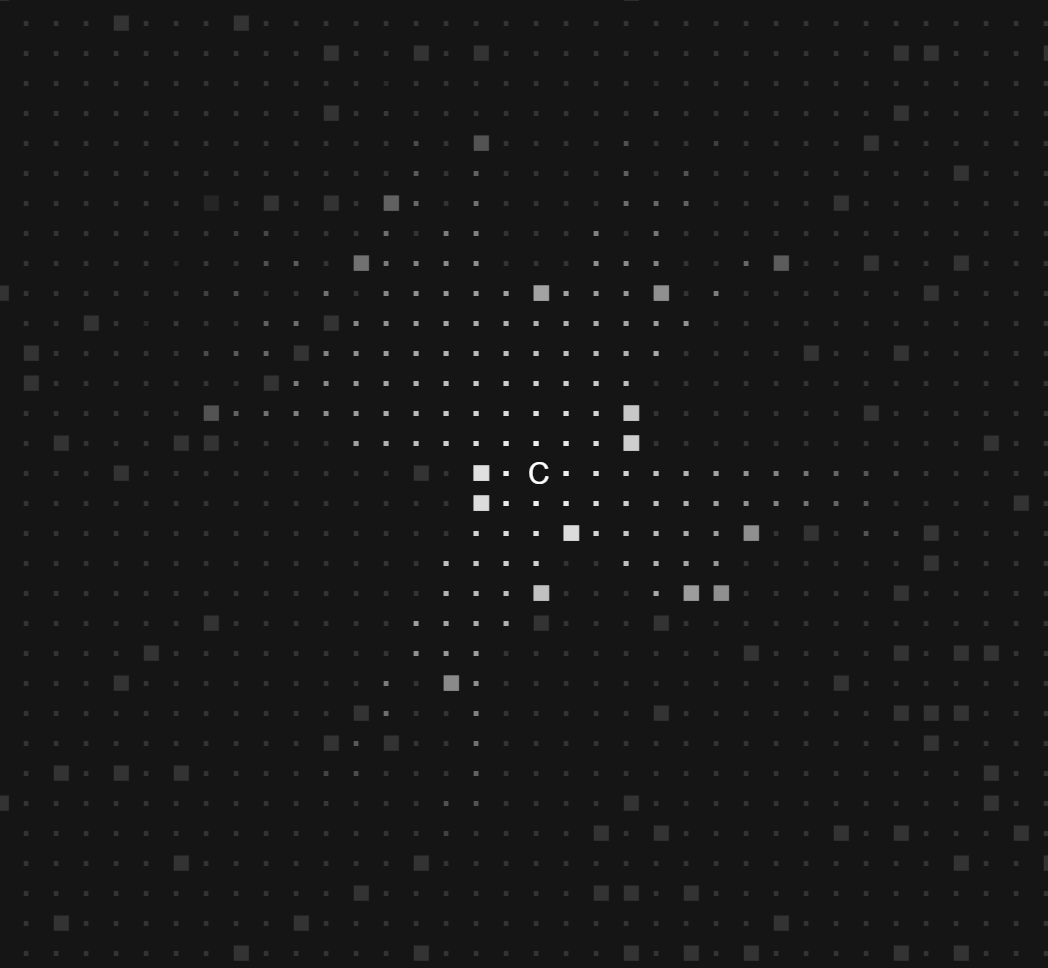
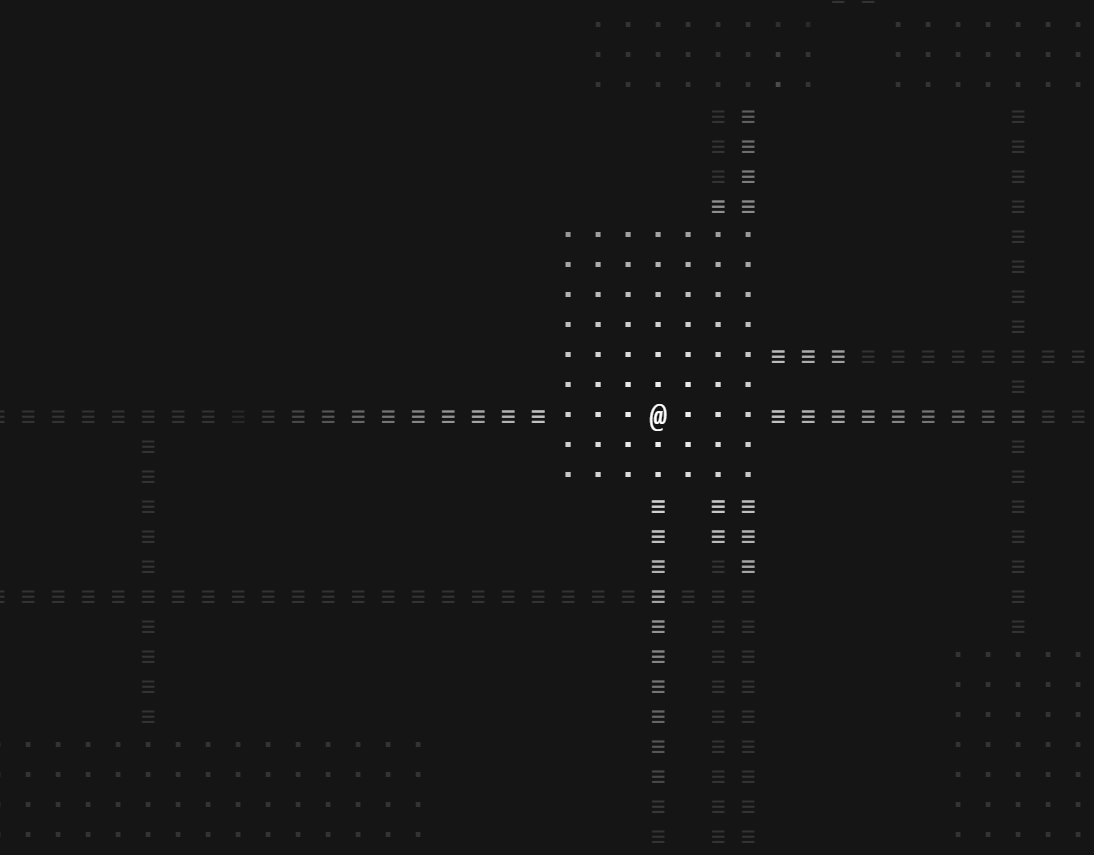
build: rooms genrator

diff --git a/src/game/Board.ts b/src/game/Board.ts
@@ -1,46 +1,65 @@
 import { Printable, setColor } from '../core/printable';
 import { shadeColor, euclidean } from '../utils';
-import { Raycaster } from './Raycaster';
 import { Canvas } from '../core/canvas';
 import { Player } from './Player';
 import { Tile } from './Tile';
+import { Room } from './Room';
 
 import CONFIG = require('../config.json');
 
-export class Board implements Printable{
+export class Board implements Printable {
+  public corridors: Room[] = [];
   public board: Tile[][] = [];
+  public rooms: Room[] = [];
 
   constructor(xSize: number, ySize: number) {
     this._createBoard(xSize, ySize);
   }
 
   private _createBoard(xSize: number, ySize: number): void {
-    // TODO: Better generator will be provided one day...
     for (let i = 0; i < xSize; i++) {
       const boardRow: Tile[] = [];
       for (let j = 0; j < ySize; j++) {
-        if (Math.random() * 10 < 1) {
-          boardRow.push(Tile.getTile('WALL', i, j));
-        } else {
-          boardRow.push(Tile.getTile('GRASS', i, j));
-        }
+        boardRow.push(Tile.getTile('SPACE', i, j));
       }
       this.board.push(boardRow);
+    }
+
+    const map = Room.createRoomsWithCorridors();
+    this.corridors = map.corridors;
+    this.rooms = map.rooms;
+
+    this.corridors.forEach((room) => {
+      this._drawRoom(room, 'PANEL');
+    });
+    this.rooms.forEach((room) => {
+      this._drawRoom(room, 'GRASS');
+    });
+  }
+
+  private _drawRoom(room: Room, tile: string): void {
+    for (let i = room.x1; i < room.x2; i++) {
+      for (let j = room.y1; j < room.y2; j++) {
+        this.board[i][j] = Tile.getTile(tile, i, j);
+      }
     }
   }
 
   public draw(): void {
     const xPossibleKeys = (window.innerWidth / CONFIG.GAME.TILE_SIZE / 2 + 5) >> 0;
     const yPossibleKeys = (window.innerHeight / CONFIG.GAME.TILE_SIZE / 2 + 5) >> 0;
-    const castedRays = Raycaster.castRays();
-
-    for (let i = Math.max(Player.Instance.yCord - yPossibleKeys, 0); i < Math.min(Player.Instance.yCord + yPossibleKeys, CONFIG.GAME.BOARD_SIZE_Y); i++) {
-      for (let j = Math.max(Player.Instance.xCord - xPossibleKeys, 0); j < Math.min(Player.Instance.xCord + xPossibleKeys, CONFIG.GAME.BOARD_SIZE_X); j++) {
-        if (!(i === Player.Instance.yCord && j === Player.Instance.xCord)) {
-
+    const maxBoardX = CONFIG.GAME.BOARD_SIZE_X;
+    const maxBoardY = CONFIG.GAME.BOARD_SIZE_Y;
+    const xCord = Player.Instance.xCord;
+    const yCord = Player.Instance.yCord;
+    for (let i = Math.max(yCord - yPossibleKeys, 0); i < Math.min(yCord + yPossibleKeys, maxBoardY); i++) {
+      for (let j = Math.max(xCord - xPossibleKeys, 0); j < Math.min(xCord + xPossibleKeys, maxBoardX); j++) {
+        if (!(i === yCord && j === xCord)) {
           const tile = this.board[j][i];
           const distance = euclidean(Player.Position, tile.content.position)
-          setColor(Canvas.Context, castedRays.includes(tile) ? shadeColor('#ffffff', -distance / 5) : '#333');
+          setColor(Canvas.Context, Player.Instance.availableTiles.includes(tile)
+            ? shadeColor('#ffffff', -distance / 5)
+            : '#333');
           tile.draw();
         }
       }

diff --git a/src/game/Room.ts b/src/game/Room.ts
@@ -1,0 +1,73 @@
+import { Point } from '../entity';
+
+import CONFIG = require('../config.json');
+
+export class Room {
+  public center: Point;
+  public x1: number;
+  public x2: number;
+  public y1: number;
+  public y2: number;
+  public w: number;
+  public h: number;
+
+  public static createRoomsWithCorridors(): { rooms: Room[], corridors: Room[] } {
+    const corridors: Room[] = [];
+    const rooms: Room[] = [];
+    let roomNumber = 0;
+    while (roomNumber < CONFIG.ROOMS.MAX_ROOMS) {
+      const w = (CONFIG.ROOMS.MIN_ROOM_SIZE + Math.random() * (CONFIG.ROOMS.MAX_ROOM_SIZE - CONFIG.ROOMS.MIN_ROOM_SIZE + 1)) >> 0;
+      const h = (CONFIG.ROOMS.MIN_ROOM_SIZE + Math.random() * (CONFIG.ROOMS.MAX_ROOM_SIZE - CONFIG.ROOMS.MIN_ROOM_SIZE + 1)) >> 0;
+      const x = (Math.random() * (CONFIG.GAME.BOARD_SIZE_X - w - 1) + 1) >> 0;
+      const y = (Math.random() * (CONFIG.GAME.BOARD_SIZE_Y - h - 1) + 1) >> 0;
+      const room = new Room(x, y, w, h);
+      let failed = false;
+      rooms.forEach((otherRoom) => { if (room.intersects(otherRoom)) failed = true; });
+      if (!failed) {
+        if (rooms.length !== 0) {
+          var prevCenter = rooms[rooms.length - 1].center;
+          if (Math.random() * 2 > 1) {
+            corridors.push(this._hCorridor(prevCenter.x, room.center.x, prevCenter.y));
+            corridors.push(this._vCorridor(prevCenter.y, room.center.y, room.center.x));
+          } else {
+            corridors.push(this._vCorridor(prevCenter.y, room.center.y, prevCenter.x));
+            corridors.push(this._hCorridor(prevCenter.x, room.center.x, room.center.y));
+          }
+        }
+        rooms.push(room);
+        roomNumber += 1;
+      }
+    }
+    return { rooms: rooms, corridors: corridors };
+  }
+
+  constructor(x: number, y: number, w: number, h: number) {
+    this.x2 = x + w;
+    this.y2 = y + h;
+    this.x1 = x;
+    this.y1 = y;
+    this.w = w;
+    this.h = h;
+    this.center = new Point(
+      Math.floor((this.x1 + this.x2) / 2),
+      Math.floor((this.y1 + this.y2) / 2)
+    );
+  }
+
+  public intersects(room: Room): boolean {
+    return (
+      this.x1 <= room.x2 &&
+      this.x2 >= room.x1 &&
+      this.y1 <= room.y2 &&
+      room.y2 >= room.y1
+    );
+  }
+
+  private static _hCorridor(x1: number, x2: number, y: number): Room {
+    return new Room(Math.min(x1, x2), y, Math.max(x1, x2) - Math.min(x1, x2) + 1, 1);
+  }
+
+  private static _vCorridor(y1: number, y2: number, x: number): Room {
+    return new Room(x, Math.min(y1, y2), 1, Math.max(y1, y2) - Math.min(y1, y2) + 1);
+  }
+}

diff --git a/src/game/Player.ts b/src/game/Player.ts
@@ -1,11 +1,15 @@
+import { Raycaster } from './Raycaster';
 import { Text, Point } from '../entity';
 import { Board } from './Board';
 import { Tile } from './Tile';
 
 import CONFIG = require('../config.json');
+import { head } from 'ramda';
 
 export class Player extends Tile {
   private static _instance: Player;
+
+  public availableTiles: Tile[] = [];
   private _board: Board;
 
   public static get Position(): Point {
@@ -24,23 +28,23 @@ export class Player extends Tile {
       new Text(
         CONFIG.TILES.CHARACTER.CHAR,
         new Point(
-          CONFIG.GAME.PLAYER_X * CONFIG.GAME.TILE_SIZE,
-          CONFIG.GAME.PLAYER_Y * CONFIG.GAME.TILE_SIZE
+          head(board.rooms).center.x * CONFIG.GAME.TILE_SIZE,
+          head(board.rooms).center.y * CONFIG.GAME.TILE_SIZE
         ),
         CONFIG.GAME.TILE_SIZE
       ),
-      CONFIG.GAME.PLAYER_X,
-      CONFIG.GAME.PLAYER_Y,
+      head(board.rooms).center.x,
+      head(board.rooms).center.y,
       false,
       CONFIG.TILES.CHARACTER.HEIGHT_LEVEL
     );
-
-    this._board = board;
-    this._setKeyListener();
   }
 
   public static setInstance(board: Board) {
     this._instance = new Player(board);
+    this._instance._board = board;
+    this._instance._setKeyListener();
+    this._instance._updatePosition();
   }
 
   public static draw(): void {
@@ -92,5 +96,6 @@ export class Player extends Tile {
 
   private _updatePosition(): void {
     this.content.position = Player.Position;
+    this.availableTiles = Raycaster.castRays(Player.Position.x, Player.Position.y);
   }
 }

diff --git a/src/game/Raycaster.ts b/src/game/Raycaster.ts
@@ -1,8 +1,7 @@
-import CONFIG = require('../config.json');
-
-import { Player } from './Player';
 import { Board } from './Board';
 import { Tile } from './Tile';
+
+import CONFIG = require('../config.json');
 
 export class Raycaster {
   private static _instance: Raycaster;
@@ -12,15 +11,10 @@ export class Raycaster {
     this._board = board;
   }
 
-  public static castRays(): Tile[] {
+  public static castRays(srcX: number, srcY: number): Tile[] {
     const tiles: Tile[] = [];
-    for (let x = 0; x < 360; x += 10) {
-      const rayAngle = (x * Math.PI) / 180;
-      const tile = this._castRay(
-        Player.Position.x,
-        Player.Position.y,
-        rayAngle
-      );
+    for (let angle = 0; angle < Math.PI * 2; angle += 0.1) {
+      const tile = this._castRay(srcX, srcY, angle);
       if (tiles) tile.forEach((el) => tiles.push(el));
     }
     return tiles.filter((v, i) => tiles.indexOf(v) === i);
@@ -43,9 +37,7 @@ export class Raycaster {
         this._instance._board.board[col][row];
       if (tile) {
         tiles.push(tile);
-        if (!tile.isAccessible) {
-          isHit = true;
-        }
+        if (!tile.isAccessible) isHit = true;
       }
     }
     return tiles.filter((el, index) => tiles.indexOf(el) === index);

diff --git a/src/game/Tile.ts b/src/game/Tile.ts
@@ -45,7 +45,6 @@ export class Tile implements Printable {
       this.content.position.x - Player.Position.x + window.innerWidth / 2,
       this.content.position.y - Player.Position.y + window.innerHeight / 2
     );
-
     new Text(this.content.text, viewPort, CONFIG.GAME.TILE_SIZE).draw();
   }
 }

diff --git a/src/game/GameLoop.ts b/src/game/GameLoop.ts
@@ -15,8 +15,8 @@ export class GameLoop {
       CONFIG.GAME.BOARD_SIZE_X,
       CONFIG.GAME.BOARD_SIZE_Y
     );
-    Player.setInstance(this.gameBoard);
     Raycaster.setInstance(this.gameBoard);
+    Player.setInstance(this.gameBoard);
   }
 
   public static OnLoop(): void {

diff --git a/src/entity/Text.ts b/src/entity/Text.ts
@@ -3,7 +3,7 @@ import { Canvas } from '../core/canvas';
 import { Point } from './Point';
 
 export class Text implements Printable {
-  public font: string = 'Arial';
+  public font: string = 'Consolas';
   public position: Point;
   public text: string;
   public size: number;
